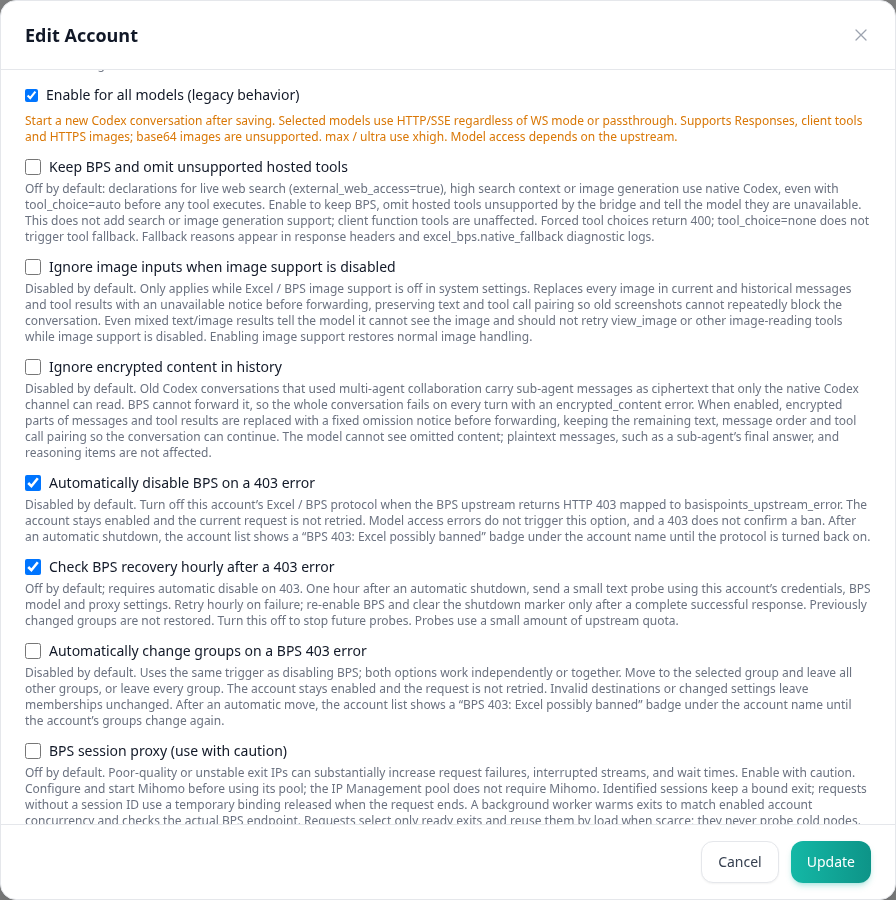
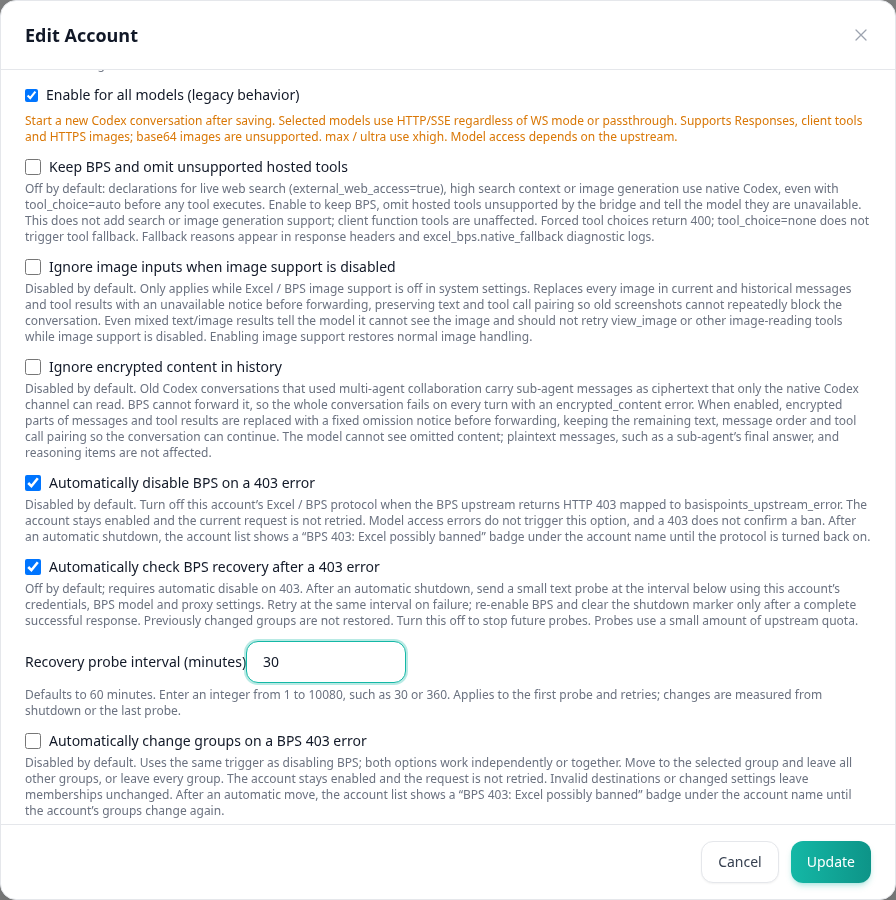
feat(bps): configure 403 recovery probe interval in minutes

Changed region(s): [[0.0312, 0.6222, 0.9688, 0.9333]]

diff --git a/frontend/src/components/account/EditAccountModal.vue b/frontend/src/components/account/EditAccountModal.vue
@@ -1819,6 +1819,14 @@
             <span class="text-sm">{{ t('admin.accounts.openai.excelBPSAutoRecoverOn403') }}</span>
           </label>
           <p class="mt-1 text-xs text-gray-500 dark:text-gray-400">{{ t('admin.accounts.openai.excelBPSAutoRecoverOn403Desc') }}</p>
+          <div v-if="excelBPSAutoRecoverOn403 && excelBPSAutoDisableOn403" class="mt-2">
+            <label class="block space-y-1">
+              <span class="text-sm">{{ t('admin.accounts.openai.excelBPS403RecoveryInterval') }}</span>
+              <input v-model.number="excelBPSRecoveryIntervalMinutes" type="number" min="1" :max="MAX_BPS_RECOVERY_INTERVAL_MINUTES" step="1" required
+                data-testid="excel-bps-recovery-interval" class="input w-40" />
+            </label>
+            <p class="mt-1 text-xs text-gray-500 dark:text-gray-400">{{ t('admin.accounts.openai.excelBPS403RecoveryIntervalHint') }}</p>
+          </div>
         </div>
         <div v-if="excelBPSEnabled" class="mt-3">
           <label class="flex items-center gap-2">
@@ -3187,6 +3195,7 @@
 <script setup lang="ts">
 import { ref, reactive, computed, watch, nextTick } from 'vue'
 import { useI18n } from 'vue-i18n'
+import { DEFAULT_BPS_RECOVERY_INTERVAL_MINUTES, MAX_BPS_RECOVERY_INTERVAL_MINUTES, isValidBPSRecoveryInterval, bpsRecoveryIntervalOrDefault } from '@/utils/excelBPSRecovery'
 import { useAppStore } from '@/stores/app'
 import { useAuthStore } from '@/stores/auth'
 
@@ -3728,6 +3737,7 @@ const excelBPSProxySource = ref<'mihomo' | 'ip_pool'>('mihomo')
 const excelBPSCacheCreationAsInput = ref(false)
 const excelBPSAutoDisableOn403 = ref(false)
 const excelBPSAutoRecoverOn403 = ref(false)
+const excelBPSRecoveryIntervalMinutes = ref<number | string>(DEFAULT_BPS_RECOVERY_INTERVAL_MINUTES)
 const excelBPS403RecoveryPending = computed(() => props.account?.extra?.openai_excel_bps !== true && typeof props.account?.extra?.openai_excel_bps_403_disabled_at === 'string')
 const excelBPSOmitUnsupportedTools = ref(false)
 const excelBPSIgnoreImages = ref(false)
@@ -4239,6 +4249,7 @@ const syncFormFromAccount = (newAccount: Account | null) => {
   excelBPSCacheCreationAsInput.value = false
   excelBPSAutoDisableOn403.value = false
   excelBPSAutoRecoverOn403.value = false
+  excelBPSRecoveryIntervalMinutes.value = DEFAULT_BPS_RECOVERY_INTERVAL_MINUTES
   excelBPSOmitUnsupportedTools.value = false
   excelBPSIgnoreImages.value = false
   excelBPSIgnoreEncryptedContent.value = false
@@ -4275,6 +4286,7 @@ const syncFormFromAccount = (newAccount: Account | null) => {
     excelBPSCacheCreationAsInput.value = excelBPSEnabled.value && extra?.openai_excel_bps_cache_creation_as_input === true
     excelBPSAutoDisableOn403.value = newAccount.type === 'oauth' && extra?.openai_excel_bps_auto_disable_on_403 === true
     excelBPSAutoRecoverOn403.value = newAccount.type === 'oauth' && extra?.openai_excel_bps_auto_recover_on_403 === true
+    excelBPSRecoveryIntervalMinutes.value = bpsRecoveryIntervalOrDefault(extra?.openai_excel_bps_403_recovery_interval_minutes)
     excelBPSOmitUnsupportedTools.value = excelBPSEnabled.value && extra?.openai_excel_bps_omit_unsupported_tools === true
     excelBPSIgnoreImages.value = excelBPSEnabled.value && extra?.openai_excel_bps_ignore_images === true
     excelBPSIgnoreEncryptedContent.value = excelBPSEnabled.value && extra?.openai_excel_bps_ignore_encrypted_content === true
@@ -5232,6 +5244,10 @@ const submitUpdateAccount = async (accountID: number, updatePayload: Record<stri
 const handleSubmit = async () => {
   if (!props.account) return
   const accountID = props.account.id
+  if (props.account.platform === 'openai' && props.account.type === 'oauth' && !isSparkShadow.value && (excelBPSEnabled.value || excelBPS403RecoveryPending.value) && excelBPSAutoDisableOn403.value && excelBPSAutoRecoverOn403.value && !isValidBPSRecoveryInterval(excelBPSRecoveryIntervalMinutes.value)) {
+    appStore.showError(t('admin.accounts.openai.excelBPS403RecoveryIntervalInvalid'))
+    return
+  }
   if (props.account.platform === 'openai' && props.account.type === 'oauth' && !isSparkShadow.value && excelBPSEnabled.value && excelBPSAutoMoveOn403.value) {
     const target = Number(excelBPS403TargetGroupID.value)
     if (excelBPS403TargetGroupID.value === '' || !Number.isSafeInteger(target) || target < 0 ||
@@ -5841,6 +5857,9 @@ const handleSubmit = async () => {
         newExtra.openai_excel_bps_auto_disable_on_403 = true
       } else {
         delete newExtra.openai_excel_bps_auto_disable_on_403
+      }
+      if (newExtra.openai_excel_bps === true || preserveDisabledBPS) {
+        newExtra.openai_excel_bps_403_recovery_interval_minutes = bpsRecoveryIntervalOrDefault(excelBPSRecoveryIntervalMinutes.value)
       }
       if ((newExtra.openai_excel_bps === true || preserveDisabledBPS) && excelBPSAutoDisableOn403.value && excelBPSAutoRecoverOn403.value) {
         newExtra.openai_excel_bps_auto_recover_on_403 = true

diff --git a/frontend/src/i18n/locales/en/admin/accounts.ts b/frontend/src/i18n/locales/en/admin/accounts.ts
@@ -674,8 +674,11 @@ export default {
         excelBPSProxySourceIPPool: 'IP management pool',
         excelBPSProxySourceIPPoolDesc: 'Uses every active, unexpired proxy in IP management as the exit pool, with no Mihomo required. Binding, ranking, cooldown and probing follow the same rules as the Mihomo pool. Proxy changes apply within about 15 seconds.',
         excelBPSMihomoDesc: 'Off by default. Poor-quality or unstable exit IPs can substantially increase request failures, interrupted streams, and wait times. Enable with caution. Configure and start Mihomo before using its pool; the IP Management pool does not require Mihomo. Identified sessions keep a bound exit; requests without a session ID use a temporary binding released when the request ends. A background worker warms exits to match enabled account concurrency and checks the actual BPS endpoint. Requests select only ready exits and reuse them by load when scarce; they never probe cold nodes. An empty ready pool fails fast while warming continues. Healthy sessions keep their exit. Ordinary nodes cool down for 5 minutes after the first broken stream, increasing to at most 30 minutes on repeated failures. Dynamic proxies start at 30 seconds, up to 2 minutes. Nodes must pass probes after cooldown. Affected sessions switch exits only after in-flight requests finish. One extra attempt is allowed only when the request is confirmed unsent. Sent requests and responses already streaming are not replayed, and there is no direct fallback. Idle bindings expire after 30 minutes and are reassigned after restart. Dynamic IP providers must support sticky exits; a successful connectivity probe does not guarantee a stable long-running stream. Disabling restores the account proxy.',
-        excelBPSAutoRecoverOn403: 'Check BPS recovery hourly after a 403 error',
-        excelBPSAutoRecoverOn403Desc: 'Off by default; requires automatic disable on 403. One hour after an automatic shutdown, send a small text probe using this account’s credentials, BPS model and proxy settings. Retry hourly on failure; re-enable BPS and clear the shutdown marker only after a complete successful response. Previously changed groups are not restored. Turn this off to stop future probes. Probes use a small amount of upstream quota.',
+        excelBPSAutoRecoverOn403: 'Automatically check BPS recovery after a 403 error',
+        excelBPSAutoRecoverOn403Desc: 'Off by default; requires automatic disable on 403. After an automatic shutdown, send a small text probe at the interval below using this account’s credentials, BPS model and proxy settings. Retry at the same interval on failure; re-enable BPS and clear the shutdown marker only after a complete successful response. Previously changed groups are not restored. Turn this off to stop future probes. Probes use a small amount of upstream quota.',
+        excelBPS403RecoveryInterval: 'Recovery probe interval (minutes)',
+        excelBPS403RecoveryIntervalHint: 'Defaults to 60 minutes. Enter an integer from 1 to 10080, such as 30 or 360. Applies to the first probe and retries; changes are measured from shutdown or the last probe.',
+        excelBPS403RecoveryIntervalInvalid: 'Recovery probe interval must be an integer from 1 to 10080 minutes',
         excelBPSAutoDisableOn403: 'Automatically disable BPS on a 403 error',
         excelBPSAutoMoveOn403: 'Automatically change groups on a BPS 403 error',
         excelBPSAutoMoveOn403Desc: 'Disabled by default. Uses the same trigger as disabling BPS; both options work independently or together. Move to the selected group and leave all other groups, or leave every group. The account stays enabled and the request is not retried. Invalid destinations or changed settings leave memberships unchanged. After an automatic move, the account list shows a “BPS 403: Excel possibly banned” badge under the account name until the account’s groups change again.',

diff --git a/frontend/src/components/account/BulkEditAccountModal.vue b/frontend/src/components/account/BulkEditAccountModal.vue
@@ -112,6 +112,14 @@
                 <span class="text-sm">{{ t('admin.accounts.openai.excelBPSAutoRecoverOn403') }}</span>
               </label>
               <p class="mt-1 text-xs text-gray-500 dark:text-gray-400">{{ t('admin.accounts.openai.excelBPSAutoRecoverOn403Desc') }}</p>
+              <div v-if="excelBPSAutoRecoverOn403 && excelBPSAutoDisableOn403" class="mt-2">
+                <label class="block space-y-1">
+                  <span class="text-sm">{{ t('admin.accounts.openai.excelBPS403RecoveryInterval') }}</span>
+                  <input v-model.number="excelBPSRecoveryIntervalMinutes" type="number" min="1" :max="MAX_BPS_RECOVERY_INTERVAL_MINUTES" step="1" required
+                    data-testid="bulk-excel-bps-recovery-interval" class="input w-40" />
+                </label>
+                <p class="mt-1 text-xs text-gray-500 dark:text-gray-400">{{ t('admin.accounts.openai.excelBPS403RecoveryIntervalHint') }}</p>
+              </div>
             </div>
             <div class="mt-3">
               <label class="flex items-center gap-2">
@@ -1613,6 +1621,7 @@
 <script setup lang="ts">
 import { ref, watch, computed } from 'vue'
 import { useI18n } from 'vue-i18n'
+import { DEFAULT_BPS_RECOVERY_INTERVAL_MINUTES, MAX_BPS_RECOVERY_INTERVAL_MINUTES, isValidBPSRecoveryInterval, bpsRecoveryIntervalOrDefault } from '@/utils/excelBPSRecovery'
 import { useAppStore } from '@/stores/app'
 import { useAuthStore } from '@/stores/auth'
 import { adminAPI } from '@/api/admin'
@@ -1842,6 +1851,7 @@ const excelBPSProxySource = ref<'mihomo' | 'ip_pool'>('mihomo')
 const excelBPSCacheCreationAsInput = ref(false)
 const excelBPSAutoDisableOn403 = ref(false)
 const excelBPSAutoRecoverOn403 = ref(false)
+const excelBPSRecoveryIntervalMinutes = ref<number | string>(DEFAULT_BPS_RECOVERY_INTERVAL_MINUTES)
 const excelBPSOmitUnsupportedTools = ref(false)
 const excelBPSIgnoreImages = ref(false)
 const excelBPSIgnoreEncryptedContent = ref(false)
@@ -2153,6 +2163,7 @@ const buildUpdatePayload = (): Record<string, unknown> | null => {
       excelBPSEnabled.value && excelBPSCacheCreationAsInput.value
     extra.openai_excel_bps_auto_disable_on_403 = excelBPSEnabled.value && excelBPSAutoDisableOn403.value
     extra.openai_excel_bps_auto_recover_on_403 = excelBPSEnabled.value && excelBPSAutoDisableOn403.value && excelBPSAutoRecoverOn403.value
+    extra.openai_excel_bps_403_recovery_interval_minutes = bpsRecoveryIntervalOrDefault(excelBPSRecoveryIntervalMinutes.value)
     extra.openai_excel_bps_omit_unsupported_tools = excelBPSEnabled.value && excelBPSOmitUnsupportedTools.value
     extra.openai_excel_bps_ignore_images = excelBPSEnabled.value && excelBPSIgnoreImages.value
     extra.openai_excel_bps_ignore_encrypted_content = excelBPSEnabled.value && excelBPSIgnoreEncryptedContent.value
@@ -2421,6 +2432,10 @@ const handleSubmit = async () => {
     return
   }
 
+  if (enableExcelBPS.value && allOpenAIOAuthOnly.value && excelBPSEnabled.value && excelBPSAutoDisableOn403.value && excelBPSAutoRecoverOn403.value && !isValidBPSRecoveryInterval(excelBPSRecoveryIntervalMinutes.value)) {
+    appStore.showError(t('admin.accounts.openai.excelBPS403RecoveryIntervalInvalid'))
+    return
+  }
   if (enableExcelBPS.value && allOpenAIOAuthOnly.value && excelBPSEnabled.value && excelBPSAutoMoveOn403.value) {
     const target = Number(excelBPS403TargetGroupID.value)
     if (excelBPS403TargetGroupID.value === '' || !Number.isSafeInteger(target) || target < 0 ||
@@ -2587,6 +2602,7 @@ watch(
       excelBPSCacheCreationAsInput.value = false
       excelBPSAutoDisableOn403.value = false
       excelBPSAutoRecoverOn403.value = false
+      excelBPSRecoveryIntervalMinutes.value = DEFAULT_BPS_RECOVERY_INTERVAL_MINUTES
       excelBPSOmitUnsupportedTools.value = false
       excelBPSIgnoreImages.value = false
       excelBPSIgnoreEncryptedContent.value = false

diff --git a/frontend/src/i18n/locales/zh/admin/accounts.ts b/frontend/src/i18n/locales/zh/admin/accounts.ts
@@ -761,8 +761,11 @@ export default {
         excelBPSProxySourceIPPool: 'IP 管理代理池',
         excelBPSProxySourceIPPoolDesc: '使用「IP 管理」里全部启用且未过期的代理组成出口池，无需启动 Mihomo；绑定、选路、冷却和探测规则与 Mihomo 代理池相同。代理增删或启停约 15 秒内生效。',
         excelBPSMihomoDesc: '默认关闭。IP 质量差或出口不稳定会显著增加请求失败、流中断和等待时间，请谨慎开启。使用 Mihomo 代理池前需先完成配置并启动；使用 IP 管理代理池则无需启动 Mihomo。有会话标识时绑定出口，无标识时仅为本次请求临时分配，请求结束即释放。后台按已启用账号的并发数预热出口，先检查实际 BPS 接口；用户请求只从就绪池选择，数量不足时按负载复用，不在请求内探测冷节点。就绪池为空时快速返回预热未完成，健康会话保持原出口。普通节点首次断流冷却 5 分钟，重复断流最长冷却 30 分钟；动态代理首次 30 秒，最长 2 分钟，冷却后仍需通过探测。受影响会话会在进行中的请求结束后换出口。仅确认请求尚未发送时额外重试一次，已发送或已经开始输出的请求不重放，不回退直连。空闲 30 分钟释放绑定，重启后重新分配。动态 IP 供应商必须支持粘性出口；连通探测通过不代表长流一定稳定。关闭后恢复账号原代理。',
-        excelBPSAutoRecoverOn403: 'BPS 403 错误后每小时自动探测一次是否恢复',
-        excelBPSAutoRecoverOn403Desc: '默认关闭，需同时开启 403 自动关闭协议。自动关闭满一小时后，使用此账号凭据及 BPS 模型、代理设置发起小额文本探测；失败后每小时重试，收到完整成功响应后自动重新开启 BPS 并清除关闭标记。不会恢复之前调整的分组。关闭此选项可停止后续探测，探测会消耗少量上游额度。',
+        excelBPSAutoRecoverOn403: 'BPS 403 错误后自动探测是否恢复',
+        excelBPSAutoRecoverOn403Desc: '默认关闭，需同时开启 403 自动关闭协议。自动关闭后按下方间隔，使用此账号凭据及 BPS 模型、代理设置发起小额文本探测；失败后按相同间隔重试，收到完整成功响应后自动重新开启 BPS 并清除关闭标记。不会恢复之前调整的分组。关闭此选项可停止后续探测，探测会消耗少量上游额度。',
+        excelBPS403RecoveryInterval: '恢复探测间隔（分钟）',
+        excelBPS403RecoveryIntervalHint: '默认 60 分钟，可设置 1–10080 的整数，例如 30 或 360。首次探测和失败重试均使用此间隔；修改后从关闭时间或上次探测时间重新计算。',
+        excelBPS403RecoveryIntervalInvalid: '恢复探测间隔必须是 1–10080 之间的整数（分钟）',
         excelBPSAutoDisableOn403: '遇到 BPS 403 错误时自动关闭协议',
         excelBPSAutoMoveOn403: '遇到 BPS 403 错误时自动调整分组',
         excelBPSAutoMoveOn403Desc: '默认关闭. 触发条件与自动关闭协议相同, 两项可独立或同时勾选. 移入目标分组时会退出其他所有分组, 也可选择退出全部分组. 不禁用账号, 不重试当前请求. 目标分组失效或配置已变更时不调整分组. 自动调整后, 账号列表的名称下方显示「BPS 403疑似被封excel」标签, 再次调整该账号的分组后消失.',

diff --git a/frontend/src/components/account/__tests__/EditAccountModal.spec.ts b/frontend/src/components/account/__tests__/EditAccountModal.spec.ts
@@ -554,7 +554,7 @@ describe('EditAccountModal', () => {
     wrapper.unmount()
   })
 
-  it('persists hourly 403 recovery and clears it when auto-disable is turned off', async () => {
+  it.each([30, 360])('persists a %i minute recovery interval and disables recovery with auto-disable', async (minutes) => {
     const account = buildAccount()
     account.type = 'oauth'
     account.extra = { openai_excel_bps: true }
@@ -566,11 +566,16 @@ describe('EditAccountModal', () => {
     expect(wrapper.get<HTMLInputElement>(recovery).element.disabled).toBe(true)
     await wrapper.get('[data-testid="excel-bps-auto-disable-on-403"]').setValue(true)
     await wrapper.get(recovery).setValue(true)
+    const interval = wrapper.get<HTMLInputElement>('[data-testid="excel-bps-recovery-interval"]')
+    expect(interval.element.value).toBe('60')
+    await interval.setValue(String(minutes))
     await wrapper.get('form#edit-account-form').trigger('submit.prevent')
     await flushPromises()
     const extra = updateAccountMock.mock.calls[0]?.[1]?.extra
     expect(extra.openai_excel_bps_auto_recover_on_403).toBe(true)
+    expect(extra.openai_excel_bps_403_recovery_interval_minutes).toBe(minutes)
     await wrapper.setProps({ account: { ...account, extra } })
+    expect(wrapper.get<HTMLInputElement>('[data-testid="excel-bps-recovery-interval"]').element.value).toBe(String(minutes))
     expect(wrapper.get<HTMLInputElement>(recovery).element.checked).toBe(true)
     await wrapper.get('[data-testid="excel-bps-auto-disable-on-403"]').setValue(false)
     await wrapper.get('form#edit-account-form').trigger('submit.prevent')
@@ -578,10 +583,24 @@ describe('EditAccountModal', () => {
     expect(updateAccountMock.mock.calls[1]?.[1]?.extra.openai_excel_bps_auto_recover_on_403).toBeUndefined()
   })
 
+  it.each(['', '0', '-1', '1.5', '10081'])('rejects an invalid recovery interval: %s', async (value) => {
+    const account = buildAccount()
+    account.type = 'oauth'
+    account.extra = { openai_excel_bps: true, openai_excel_bps_auto_disable_on_403: true, openai_excel_bps_auto_recover_on_403: true }
+    updateAccountMock.mockReset()
+    const wrapper = mountModal(account)
+    await wrapper.get('[data-testid="excel-bps-recovery-interval"]').setValue(value)
+    await wrapper.get('form#edit-account-form').trigger('submit.prevent')
+    await flushPromises()
+    expect(updateAccountMock).not.toHaveBeenCalled()
+    wrapper.unmount()
+  })
+
   it('can enable and stop recovery on a 403-disabled account without losing hidden BPS options', async () => {
     const account = buildAccount()
     account.type = 'oauth'
     const options = {
+      openai_excel_bps_403_recovery_interval_minutes: 360,
       openai_excel_bps_models: ['gpt-6-astra'], openai_excel_bps_mihomo: true,
       openai_excel_bps_proxy_source: 'ip_pool', openai_excel_bps_ignore_images: true,
       openai_excel_bps_ignore_encrypted_content: true, openai_excel_bps_cache_creation_as_input: true,

diff --git a/frontend/src/components/account/__tests__/BulkEditAccountModal.spec.ts b/frontend/src/components/account/__tests__/BulkEditAccountModal.spec.ts
@@ -122,6 +122,7 @@ describe('BulkEditAccountModal', () => {
       openai_excel_bps_omit_unsupported_tools: false,
       openai_excel_bps_auto_disable_on_403: false,
       openai_excel_bps_auto_recover_on_403: false,
+      openai_excel_bps_403_recovery_interval_minutes: 60,
       openai_excel_bps_auto_move_on_403: false,
       openai_excel_bps_403_target_group_id: null
     }
@@ -157,20 +158,35 @@ describe('BulkEditAccountModal', () => {
       expect(adminAPI.accounts.bulkUpdate).toHaveBeenCalledWith([1, 2], { status: 'active' })
     })
 
-    it('saves hourly 403 recovery only with automatic shutdown enabled', async () => {
+    it.each(['', '0', '-1', '1.5', '10081'])('rejects invalid bulk recovery interval %s', async (value) => {
+      const wrapper = mountModal(oauthProps)
+      await enableBPS(wrapper)
+      await wrapper.get('[data-testid="bulk-excel-bps-auto-disable-on-403"]').setValue(true)
+      await wrapper.get('[data-testid="bulk-excel-bps-auto-recover-on-403"]').setValue(true)
+      await wrapper.get('[data-testid="bulk-excel-bps-recovery-interval"]').setValue(value)
+      await submit(wrapper)
+      expect(adminAPI.accounts.bulkUpdate).not.toHaveBeenCalled()
+      expect(showError).toHaveBeenCalledWith('admin.accounts.openai.excelBPS403RecoveryIntervalInvalid')
+      wrapper.unmount()
+    })
+
+    it.each([30, 360])('saves a %i minute interval only with automatic shutdown enabled', async (minutes) => {
       const wrapper = mountModal(oauthProps)
       await enableBPS(wrapper)
       const recovery = '[data-testid="bulk-excel-bps-auto-recover-on-403"]'
       expect(wrapper.get<HTMLInputElement>(recovery).element.disabled).toBe(true)
       await wrapper.get('[data-testid="bulk-excel-bps-auto-disable-on-403"]').setValue(true)
       await wrapper.get(recovery).setValue(true)
+      const interval = wrapper.get<HTMLInputElement>('[data-testid="bulk-excel-bps-recovery-interval"]')
+      expect(interval.element.value).toBe('60')
+      await interval.setValue(String(minutes))
       await submit(wrapper)
       expect(adminAPI.accounts.bulkUpdate).toHaveBeenLastCalledWith([1, 2], {
-        extra: { ...defaultExtra, openai_excel_bps_auto_disable_on_403: true, openai_excel_bps_auto_recover_on_403: true }
+        extra: { ...defaultExtra, openai_excel_bps_auto_disable_on_403: true, openai_excel_bps_auto_recover_on_403: true, openai_excel_bps_403_recovery_interval_minutes: minutes }
       })
       await wrapper.get('[data-testid="bulk-excel-bps-auto-disable-on-403"]').setValue(false)
       await submit(wrapper)
-      expect(adminAPI.accounts.bulkUpdate).toHaveBeenLastCalledWith([1, 2], { extra: defaultExtra })
+      expect(adminAPI.accounts.bulkUpdate).toHaveBeenLastCalledWith([1, 2], { extra: { ...defaultExtra, openai_excel_bps_403_recovery_interval_minutes: minutes } })
     })
 
     it('defaults BPS to Astra, 5.6 Sol and 5.6 Terra without changing other protocol settings', async () => {

diff --git a/frontend/src/utils/qualityRulePatch.ts b/frontend/src/utils/qualityRulePatch.ts
@@ -1,11 +1,12 @@
 import type { PelicanTestConfig, QualityBPSPolicy, QualityPolicy, ScheduledTestPlan, UpdateScheduledTestPlanRequest } from '@/types'
 import { DEFAULT_EXCEL_BPS_MODELS } from '@/constants/account'
 import { STATE_PROBE_QUESTION } from './intelligenceTest'
+import { DEFAULT_BPS_RECOVERY_INTERVAL_MINUTES, isValidBPSRecoveryInterval } from './excelBPSRecovery'
 
 // 新建「降智开 BPS」时的默认勾选；target_group_id = -1 表示还没选 403 后的目标分组。
 export function defaultQualityBPS(): QualityBPSPolicy {
   return { failure_threshold: 2, usage_percent: 0, require_all: false, all_models: false, models: [...DEFAULT_EXCEL_BPS_MODELS],
-    omit_unsupported_tools: true, ignore_images: false, ignore_encrypted_content: true, auto_disable_on_403: false, auto_recover_on_403: false, auto_move_on_403: false,
+    omit_unsupported_tools: true, ignore_images: false, ignore_encrypted_content: true, auto_disable_on_403: false, auto_recover_on_403: false, recovery_interval_minutes: DEFAULT_BPS_RECOVERY_INTERVAL_MINUTES, auto_move_on_403: false,
     target_group_id: -1, session_proxy: false, proxy_source: 'mihomo', cache_creation_as_input: false, pass_threshold: 2, hold_on_usage: true }
 }
 
@@ -30,6 +31,7 @@ export function qualityBPSError(bps: QualityBPSPolicy): string {
   if (!count && !usage) return 'qualityOps.bpsTriggerRequired'
   if (!validPassCount(bps.pass_threshold)) return 'qualityOps.bpsPassCountInvalid'
   if (!bps.all_models && !bps.models.some(model => model.trim())) return 'qualityOps.bpsModelsRequired'
+  if (bps.recovery_interval_minutes !== undefined && !isValidBPSRecoveryInterval(bps.recovery_interval_minutes)) return 'admin.accounts.openai.excelBPS403RecoveryIntervalInvalid'
   if (bps.auto_move_on_403 && !(bps.target_group_id >= 0)) return 'qualityOps.bpsTargetGroupRequired'
   return ''
 }
@@ -38,6 +40,7 @@ export function qualityBPSError(bps: QualityBPSPolicy): string {
 export function qualityBPSPayload(bps: QualityBPSPolicy): QualityBPSPolicy {
   return {
     ...bps,
+    recovery_interval_minutes: bps.recovery_interval_minutes ?? DEFAULT_BPS_RECOVERY_INTERVAL_MINUTES,
     models: bps.all_models ? [] : [...bps.models],
     target_group_id: bps.auto_move_on_403 ? bps.target_group_id : 0,
     proxy_source: bps.session_proxy ? bps.proxy_source || 'mihomo' : '',

diff --git a/frontend/src/utils/__tests__/qualityRulePatch.spec.ts b/frontend/src/utils/__tests__/qualityRulePatch.spec.ts
@@ -1,5 +1,5 @@
 import { describe, expect, it } from 'vitest'
-import { buildQualityRulePatch, qualityBPSError, qualityBPSForm, type QualityRuleDraft } from '../qualityRulePatch'
+import { buildQualityRulePatch, qualityBPSError, qualityBPSForm, qualityBPSPayload, type QualityRuleDraft } from '../qualityRulePatch'
 import type { QualityBPSPolicy, ScheduledTestPlan } from '@/types'
 
 const draft = (): QualityRuleDraft => ({
@@ -19,7 +19,7 @@ const bps = (): QualityBPSPolicy => ({
   failure_threshold: 2, usage_percent: 0, require_all: false, all_models: false, models: ['gpt-6-astra'],
   omit_unsupported_tools: true, ignore_images: false, ignore_encrypted_content: true, auto_disable_on_403: false,
   auto_move_on_403: false, target_group_id: -1, session_proxy: false, proxy_source: 'mihomo', cache_creation_as_input: false,
-  pass_threshold: 2, hold_on_usage: true,
+  pass_threshold: 2, hold_on_usage: true, recovery_interval_minutes: 60,
 })
 const probePlan = () => {
   const rule = plan(), config = rule.pelican_config!
@@ -141,5 +141,20 @@ describe('quality rule partial updates', () => {
     expect(qualityBPSError({ ...bps(), pass_threshold: 1 })).toBe('')
     expect(qualityBPSError({ ...bps(), pass_threshold: 100 })).toBe('')
     for (const pass_threshold of [0, 101, 1.5, Number.NaN]) expect(qualityBPSError({ ...bps(), pass_threshold })).toBe('qualityOps.bpsPassCountInvalid')
+  })
+})
+
+describe('BPS recovery interval in quality rules', () => {
+  it('defaults legacy rules to 60 minutes and persists custom intervals', () => {
+    expect(qualityBPSForm({}).recovery_interval_minutes).toBe(60)
+    expect(qualityBPSPayload({ ...bps(), recovery_interval_minutes: undefined }).recovery_interval_minutes).toBe(60)
+    for (const minutes of [1, 30, 360, 10080]) {
+      const form = qualityBPSForm({ ...bps(), recovery_interval_minutes: minutes })
+      expect(qualityBPSError(form)).toBe('')
+      expect(qualityBPSPayload(form).recovery_interval_minutes).toBe(minutes)
+    }
+  })
+  it.each([0, -1, 1.5, 10081, NaN, Infinity])('rejects invalid interval %s', (minutes) => {
+    expect(qualityBPSError({ ...bps(), recovery_interval_minutes: minutes })).toBe('admin.accounts.openai.excelBPS403RecoveryIntervalInvalid')
   })
 })

diff --git a/frontend/src/views/admin/__tests__/AccountQualityView.spec.ts b/frontend/src/views/admin/__tests__/AccountQualityView.spec.ts
@@ -362,13 +362,22 @@ describe('quality operations', () => {
     expect(scheduledTests.create).not.toHaveBeenCalled()
     expect(wrapper.find('[role="alert"]').text()).toContain('qualityOps.bpsTargetGroupRequired')
     await wrapper.find('[data-testid="quality-bps-target-group"]').setValue('21')
+    await wrapper.find('[data-testid="quality-bps-auto_disable_on_403"]').setValue(true)
+    await wrapper.find('[data-testid="quality-bps-auto_recover_on_403"]').setValue(true)
+    const interval = wrapper.get<HTMLInputElement>('[data-testid="quality-bps-recovery-interval"]')
+    expect(interval.element.value).toBe('60')
+    await interval.setValue('0')
+    await vm.save()
+    expect(scheduledTests.create).not.toHaveBeenCalled()
+    expect(wrapper.find('[role="alert"]').text()).toContain('admin.accounts.openai.excelBPS403RecoveryIntervalInvalid')
+    await interval.setValue('360')
     vm.form.pelican_config.quality.remove_group_ids = [21]
     await vm.save()
     const request = vi.mocked(scheduledTests.create).mock.calls[0][0] as any
     expect(request.pelican_config.quality).toEqual({ expected_answer: '', action: 'enable_bps', remove_group_ids: [], auto_restore: true, bps: {
       failure_threshold: 3, usage_percent: 80, require_all: true, all_models: false, models: ['gpt-6-astra'],
-      omit_unsupported_tools: true, ignore_images: true, ignore_encrypted_content: true, auto_disable_on_403: false,
-      auto_recover_on_403: false,
+      omit_unsupported_tools: true, ignore_images: true, ignore_encrypted_content: true, auto_disable_on_403: true,
+      auto_recover_on_403: true, recovery_interval_minutes: 360,
       auto_move_on_403: true, target_group_id: 21, session_proxy: false, proxy_source: '', cache_creation_as_input: false,
       pass_threshold: 3, hold_on_usage: false } })
     wrapper.unmount()

diff --git a/frontend/src/components/admin/operations/QualityBPSSettings.vue b/frontend/src/components/admin/operations/QualityBPSSettings.vue
@@ -25,6 +25,12 @@
       <div v-for="[key, label] in bpsToggles" :key="key">
         <label class="flex items-center gap-2"><input v-model="bps[key]" type="checkbox" :disabled="key === 'auto_recover_on_403' && !bps.auto_disable_on_403" :data-testid="`quality-bps-${key}`" />{{ t(`admin.accounts.openai.excelBPS${label}`) }}</label>
         <p class="mt-1 pl-6 text-xs text-gray-500">{{ t(`admin.accounts.openai.excelBPS${label}Desc`) }}</p>
+        <div v-if="key === 'auto_recover_on_403' && bps.auto_disable_on_403 && bps.auto_recover_on_403" class="mt-2 pl-6">
+          <label class="block space-y-1"><span>{{ t('admin.accounts.openai.excelBPS403RecoveryInterval') }}</span>
+            <input v-model.number="bps.recovery_interval_minutes" type="number" min="1" :max="MAX_BPS_RECOVERY_INTERVAL_MINUTES" step="1" required class="input w-40" data-testid="quality-bps-recovery-interval" />
+          </label>
+          <p class="mt-1 text-xs text-gray-500">{{ t('admin.accounts.openai.excelBPS403RecoveryIntervalHint') }}</p>
+        </div>
       </div>
       <div>
         <label class="flex items-center gap-2"><input v-model="bps.auto_move_on_403" type="checkbox" data-testid="quality-bps-auto_move_on_403" />{{ t('admin.accounts.openai.excelBPSAutoMoveOn403') }}</label>
@@ -59,6 +65,7 @@
 // 「降智后开启 BPS」的触发条件、满血后关闭和开启时默认勾选的模型/选项。
 // 质量运维的规则表单和添加/编辑账号弹窗共用这一份，改一处三处一致。
 import { useI18n } from 'vue-i18n'
+import { MAX_BPS_RECOVERY_INTERVAL_MINUTES } from '@/utils/excelBPSRecovery'
 import ModelWhitelistSelector from '@/components/account/ModelWhitelistSelector.vue'
 import QualityBPSRestoreOptions from './QualityBPSRestoreOptions.vue'
 import type { QualityBPSPolicy } from '@/types'

diff --git a/frontend/src/utils/excelBPSRecovery.ts b/frontend/src/utils/excelBPSRecovery.ts
@@ -1,0 +1,10 @@
+export const DEFAULT_BPS_RECOVERY_INTERVAL_MINUTES = 60
+export const MAX_BPS_RECOVERY_INTERVAL_MINUTES = 10080
+
+export function isValidBPSRecoveryInterval(value: unknown): value is number {
+  return typeof value === 'number' && Number.isInteger(value) && value >= 1 && value <= MAX_BPS_RECOVERY_INTERVAL_MINUTES
+}
+
+export function bpsRecoveryIntervalOrDefault(value: unknown): number {
+  return isValidBPSRecoveryInterval(value) ? value : DEFAULT_BPS_RECOVERY_INTERVAL_MINUTES
+}

diff --git a/frontend/src/types/index.ts b/frontend/src/types/index.ts
@@ -2546,6 +2546,7 @@ export interface QualityBPSPolicy {
   ignore_encrypted_content: boolean
   auto_disable_on_403: boolean
   auto_recover_on_403?: boolean
+  recovery_interval_minutes?: number
   auto_move_on_403: boolean
   target_group_id: number
   session_proxy: boolean
